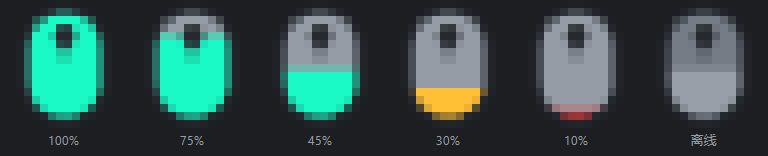
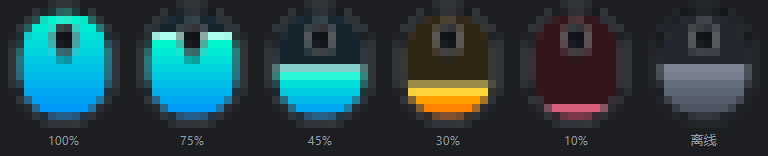
docs: 官网同步更新全新赛博机甲流光图标预览与视觉说明

diff --git a/docs/index.html b/docs/index.html
@@ -163,15 +163,15 @@
   <div class="wrap">
     <div class="sec-h">01 / 一个图标够了</div>
     <h2 class="sec-t">不弹窗、不占地方，<br>扫一眼就知道还能撑多久。</h2>
-    <p class="sec-d">图标是运行时用 GDI+ 现画的：鼠标轮廓 + 滚轮 + 按键缝，按电量从下往上填充。16×16 像素，认得出是鼠标，也看得出余量。</p>
+    <p class="sec-d">图标由 GDI+ 矢量高精渲染：全新电竞赛博机甲流光风格，外廓饱满立体，双层边缘发光光圈，深浅任务栏均一眼看清。</p>
 
     <div class="icon-row">
       <div class="icon-card"><img src="assets/icon-sheet.png" alt="不同电量下的托盘图标"></div>
       <div class="legend">
-        <div class="row"><i class="sw" style="background:#19FAC6"></i><b>40% 以上</b><span>· 一切正常</span></div>
-        <div class="row"><i class="sw" style="background:#FFC036"></i><b>16% – 40%</b><span>· 该留意了</span></div>
-        <div class="row"><i class="sw" style="background:#F0503C"></i><b>15% 及以下</b><span>· 弹一次气泡提醒</span></div>
-        <div class="row"><i class="sw" style="background:#9AA3AD"></i><b>断开 / 无设备</b><span>· 整只灰显，仍保留最后读数</span></div>
+        <div class="row"><i class="sw" style="background:linear-gradient(135deg,#00FFC8,#008CFF)"></i><b>40% 以上</b><span>· 极光青蓝流光，电量充足</span></div>
+        <div class="row"><i class="sw" style="background:linear-gradient(135deg,#FFCD00,#FF5A00)"></i><b>16% – 40%</b><span>· 炽金热橙渐变，余量适中</span></div>
+        <div class="row"><i class="sw" style="background:linear-gradient(135deg,#FF1E46,#D20028)"></i><b>15% 及以下</b><span>· 霓虹赤红警告，弹气泡提醒</span></div>
+        <div class="row"><i class="sw" style="background:linear-gradient(135deg,#737D8C,#414855)"></i><b>断开 / 待机</b><span>· 钛灰沉浸，保留断开前最后读数</span></div>
       </div>
     </div>
 
